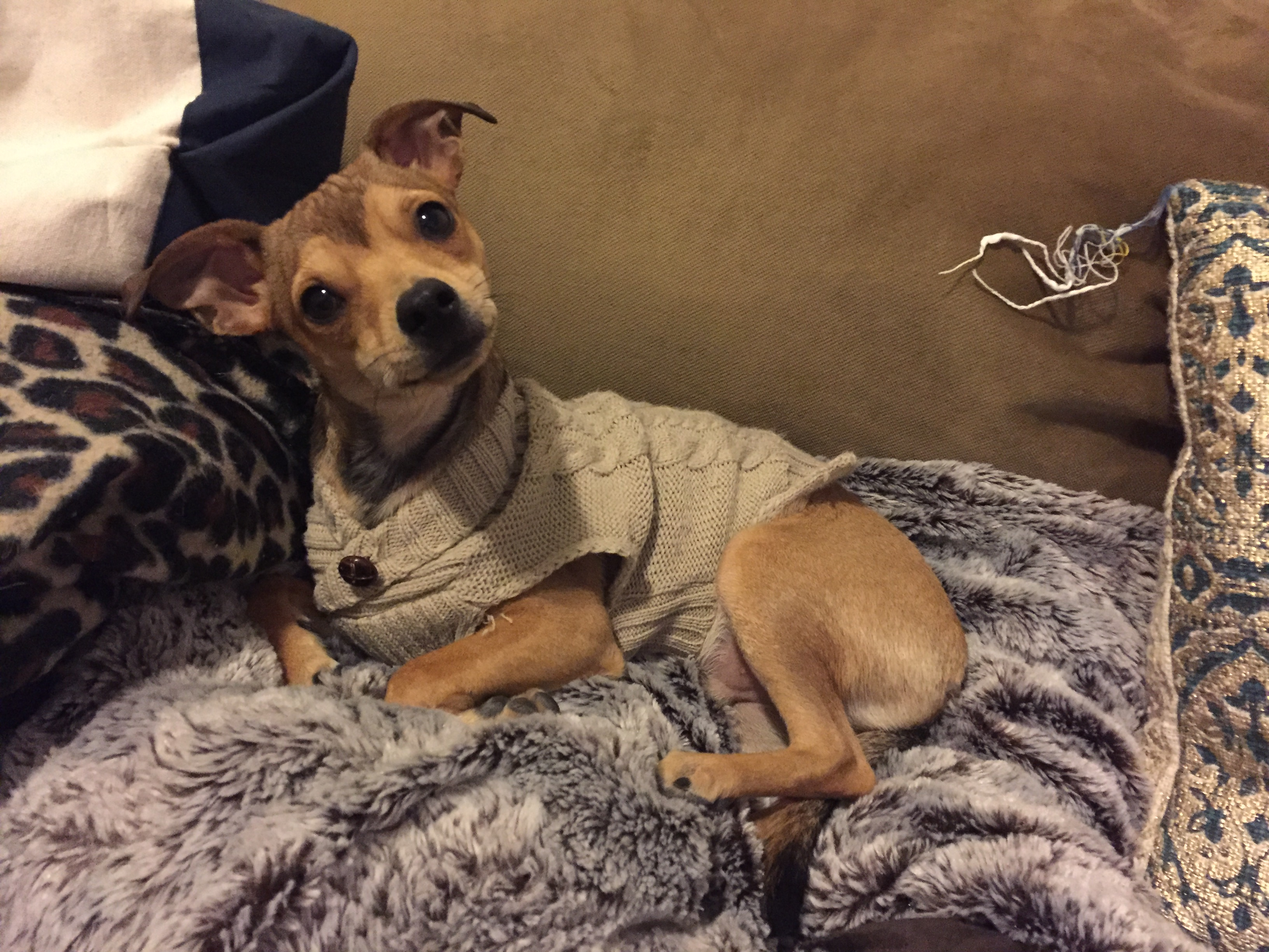
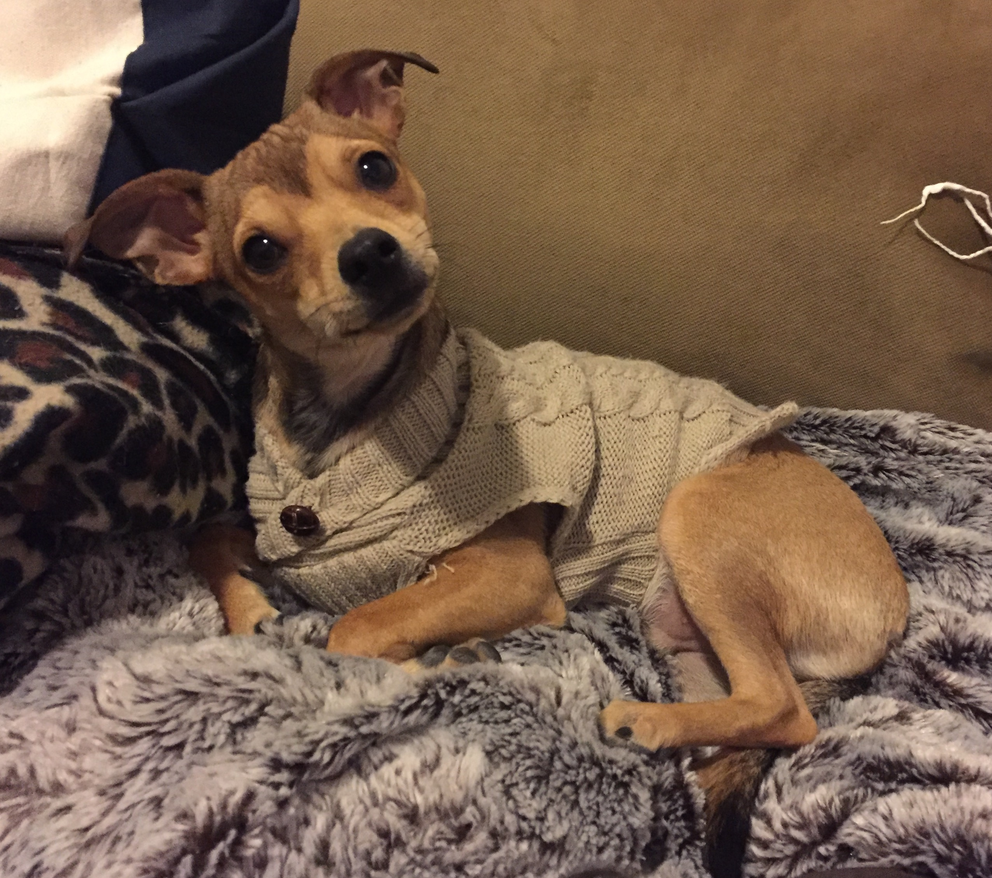
started to add pics of the dogs, need to rotate and resize them

diff --git a/index.html b/index.html
@@ -235,14 +235,19 @@ $(document).ready(function () {
 </div>
 <div id="oh-and-im-a-dog-mom" class="section level2">
 <h2>Oh, and I’m a dog mom</h2>
-<p>As if life wasn’t hectic enough, I have my two dogs here with me in NYC.</p>
-<p>Note: Jeff usually makes a folder that will contain all the images we want to put online. Also, this is probably the only case where he messes with HTML rather than add images using the R markdown.</p>
-<p>Add an image on my own:</p>
-<p><img src="images/mem_day.jpg" style="width:75%"></p>
-<p>Note that without the ./ to denote current working directory works also.</p>
+<p>As if life wasn’t hectic enough, I have my two dogs here with me in NYC:</p>
+<p><img src="images/IMG_3403.JPG" style="width:75%"></p>
+<p><img src="images/IMG_5323.JPG" style="width:75%"></p>
+<p><img src="images/IMG_2828.JPG" style="width:75%"></p>
+<p>This one is named Andy:</p>
+<p><img src="images/IMG_7124.JPG" style="width:75%"></p>
+<p>And this is his brother, Rocco:</p>
+<p><img src="images/IMG_5403.JPG" style="width:75%"></p>
+<p><img src="images/IMG_4590.JPG" style="width:75%"></p>
 </div>
 <div id="add-me-on-social-media-and-follow-my-research" class="section level2">
 <h2>Add me on social media and follow my research</h2>
+<p>Can I add buttons for these instead??? Like the email and Github in top right corner?</p>
 <p><a href="https://www.linkedin.com/in/nicole-comfort/">Linkedin</a></p>
 <p><a href="https://www.researchgate.net/profile/Nicole_Comfort">ResearchGate</a></p>
 <p><a href="https://www.ncbi.nlm.nih.gov/sites/myncbi/1v5L4VkrjtH55/bibliography/51939750/public/?sort=date&amp;direction=ascending">My NCBI Bibliography</a></p>
